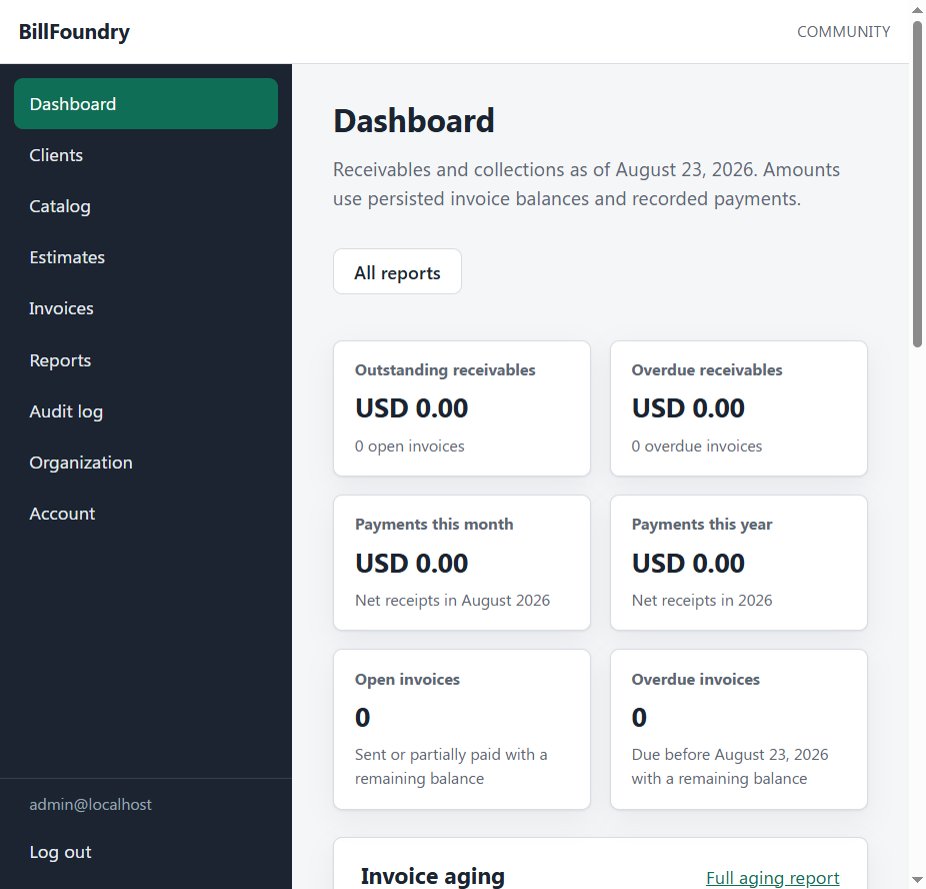
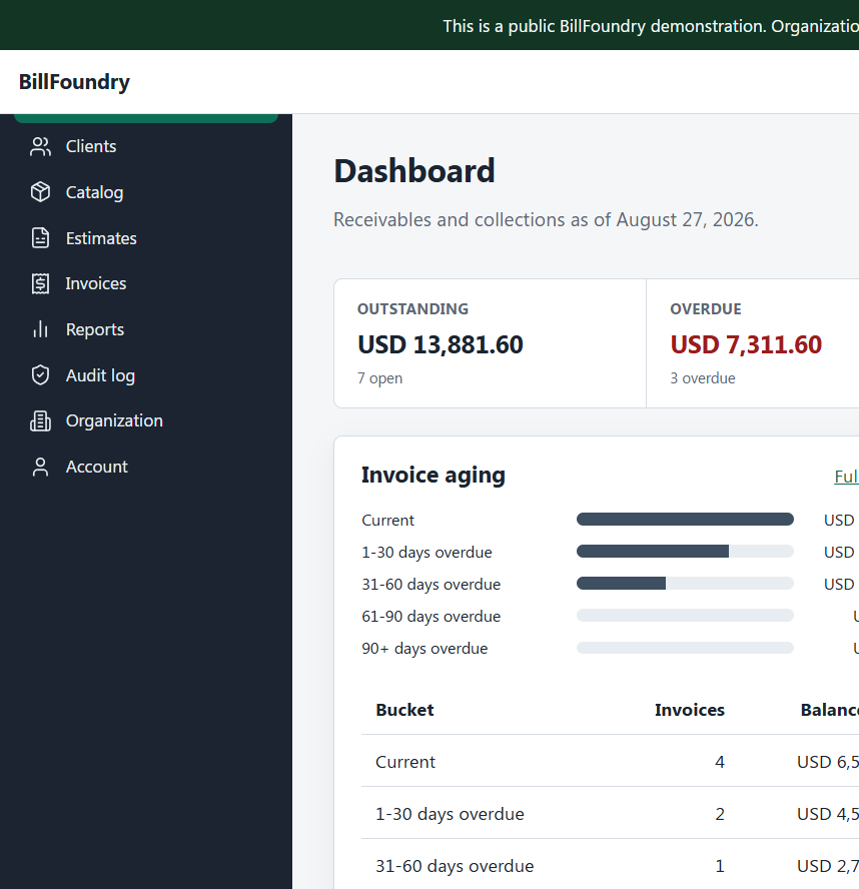
docs(project): refresh screenshots and mention Sass

diff --git a/docs/development.md b/docs/development.md
@@ -54,9 +54,9 @@ which uses the official Dart Sass compiler via the Embedded Sass Protocol.
 Compilation happens automatically during `dotnet build` - no Node.js, npm, or
 additional CLI tools are needed.
 
-- **Debug builds** produce expanded CSS with source maps
+- **Debug builds** produce expanded CSS with source maps (maps are gitignored)
 - **Release builds** produce compressed CSS without source maps
-- The generated `wwwroot/app.css` is committed to source control so `dotnet run` works without a prior build step
+- The generated `wwwroot/app.css` is committed to source control so `dotnet run` works without a prior build step. Prefer a Debug build before committing stylesheet changes so the checked-in file stays expanded.
 
 ### File organization
 

diff --git a/README.md b/README.md
@@ -39,6 +39,7 @@ AGPLv3 terms that apply to this code.
 - ASP.NET Core Blazor Web App (Interactive Server where the UI needs it)
 - Entity Framework Core 10 and SQL Server
 - ASP.NET Core Identity
+- Sass (Dart Sass via EmbeddedSass.Net) for the UI
 - PDFsharp for documents, PdfPig in tests
 - xUnit
 
